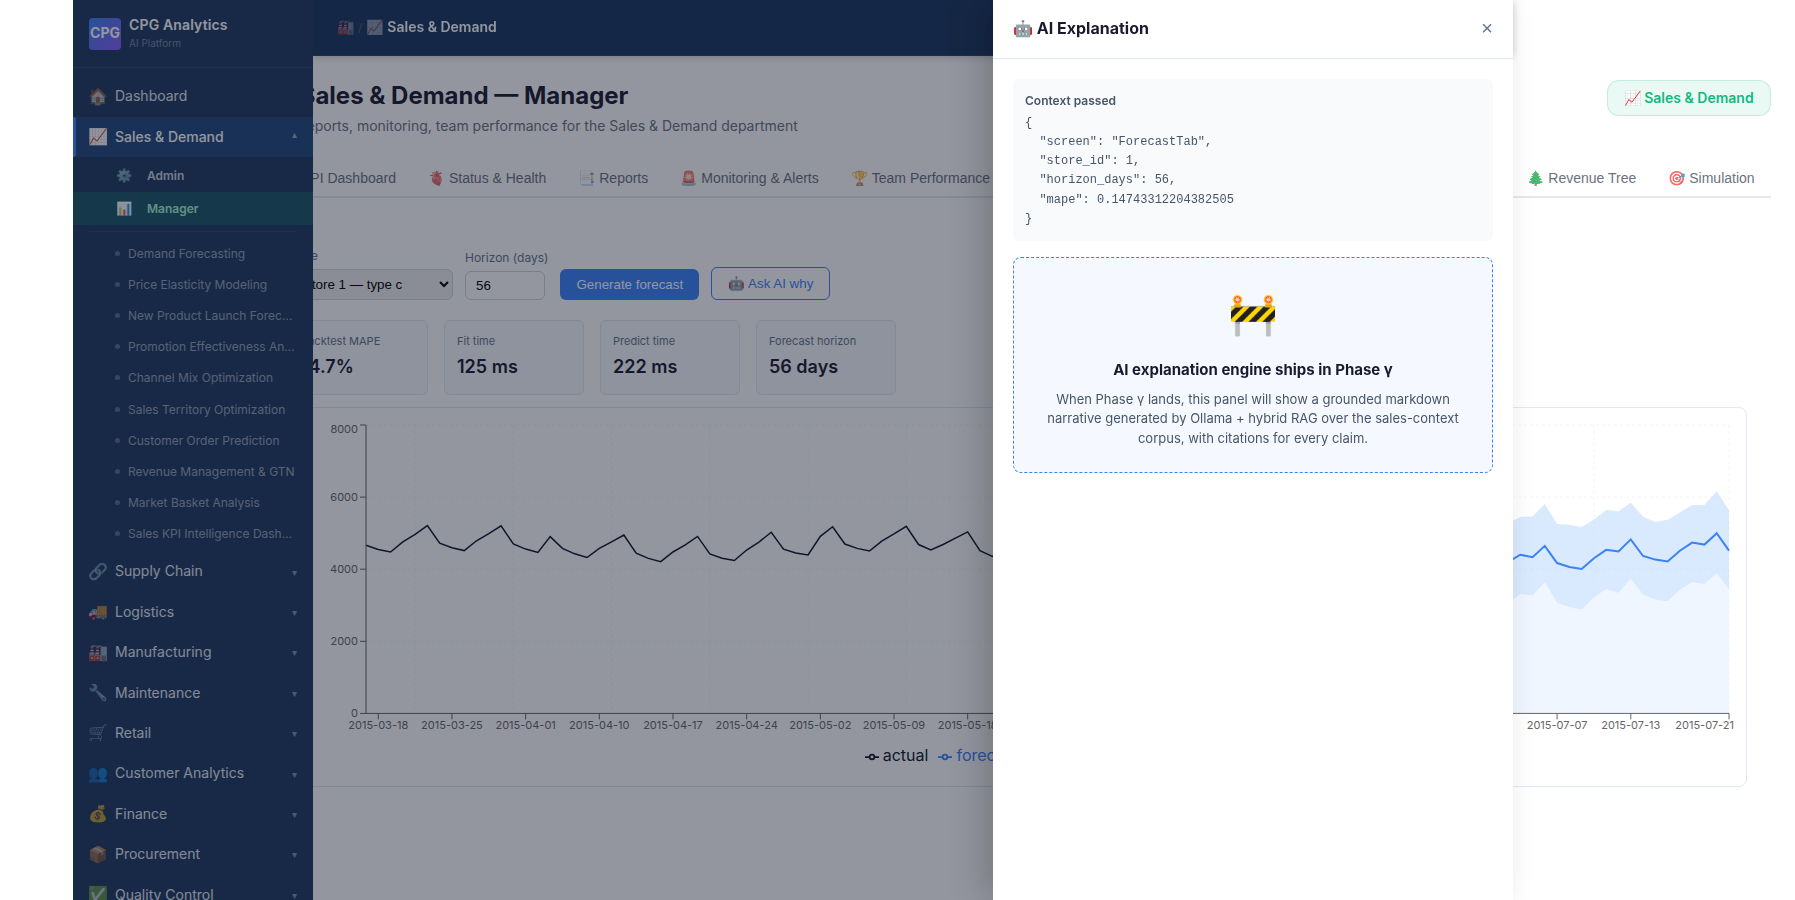
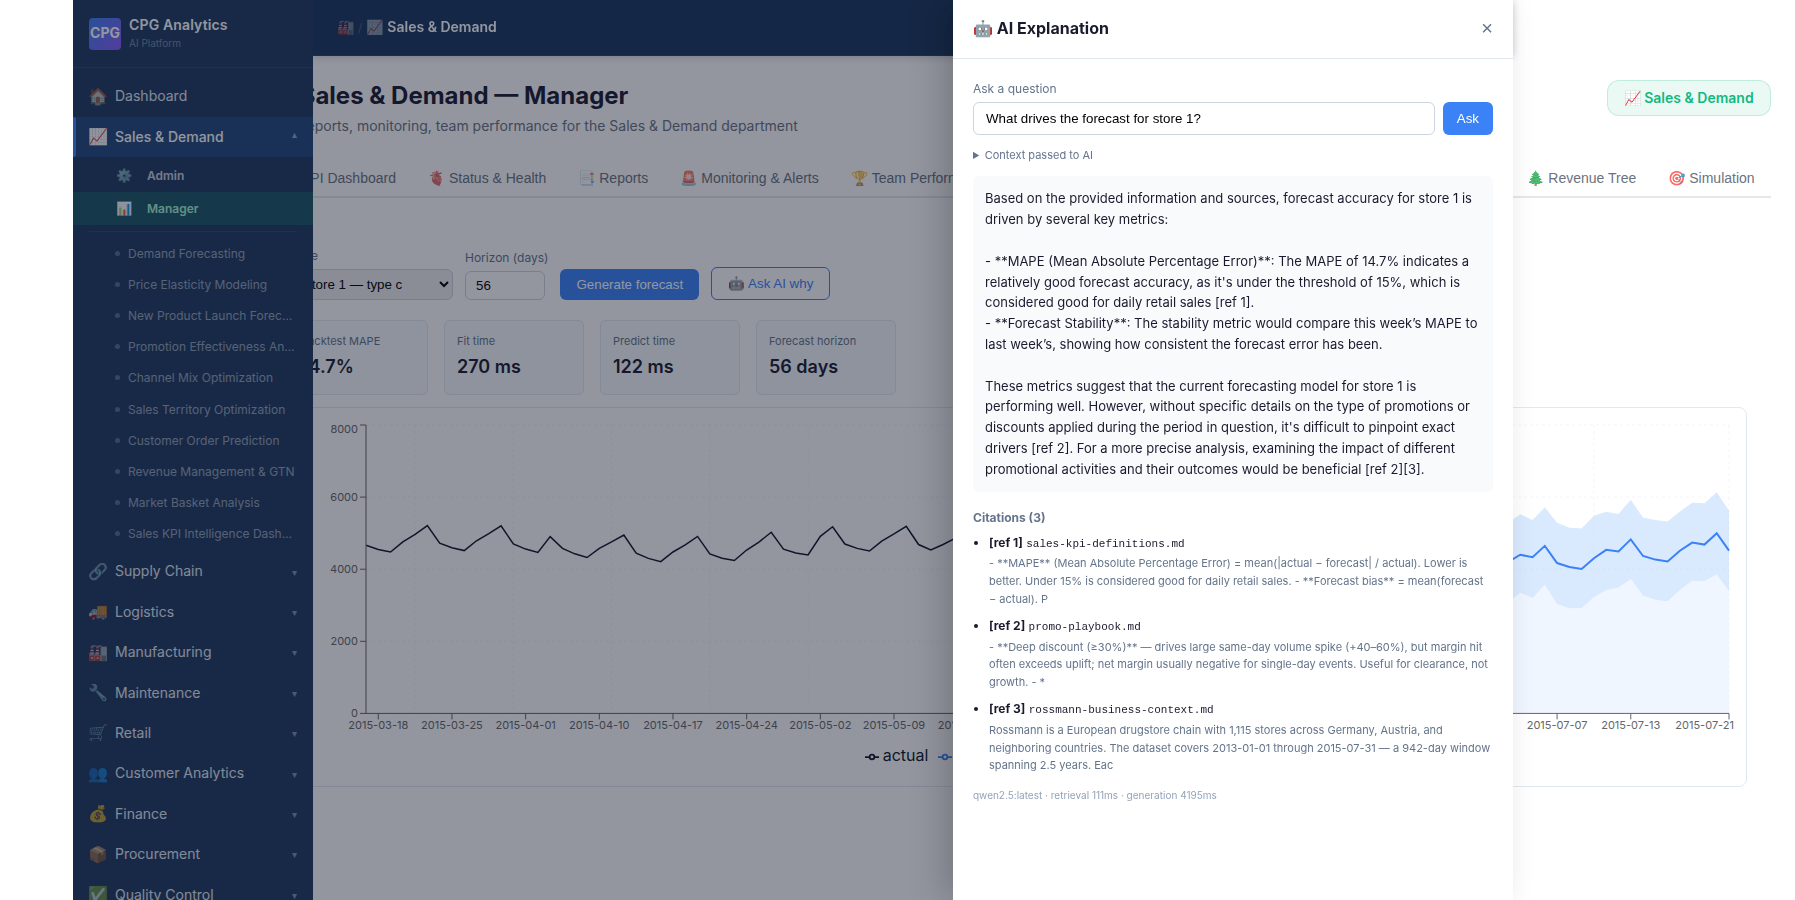
test(e2e): capture live ExplainDrawer with citations

diff --git a/frontend/e2e/capture-screenshots.spec.js b/frontend/e2e/capture-screenshots.spec.js
@@ -34,6 +34,7 @@ test.describe('Sales flagship — demo screenshots', () => {
   });
 
   test('04 forecast tab — store picker + generated Prophet chart', async ({ page }) => {
+    test.setTimeout(120_000); // First RAG call can take 15-40s (index build + embed)
     await page.goto('/sales/manager');
     // "Forecast" tab button uniquely — use last() since the word may appear elsewhere
     await page.locator('.tab-item').filter({ hasText: /Forecast/ }).first().click();
@@ -50,7 +51,12 @@ test.describe('Sales flagship — demo screenshots', () => {
     // Open ExplainDrawer
     await page.getByRole('button', { name: /Ask AI why/ }).click();
     await expect(page.getByRole('dialog', { name: /AI Explanation/ })).toBeVisible();
-    await page.waitForTimeout(400);
+    // Drawer now has an input + Ask button + returns live RAG content.
+    // Question is pre-seeded from context — just submit.
+    await page.getByRole('button', { name: /^Ask$/ }).click();
+    // Wait for the Citations section — first RAG call can take ~15-40s on cold cache.
+    await expect(page.locator('text=/Citations \\(/')).toBeVisible({ timeout: 90_000 });
+    await page.waitForTimeout(1200);
     await page.screenshot({ path: `${OUT}/04c-explain-drawer.png`, fullPage: true });
   });
 
